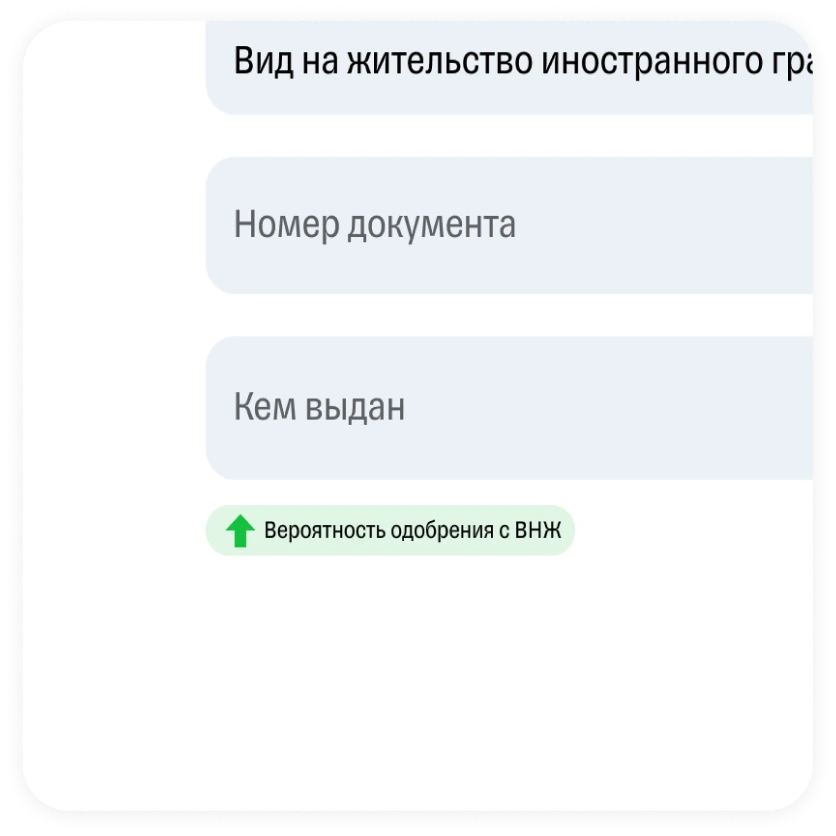
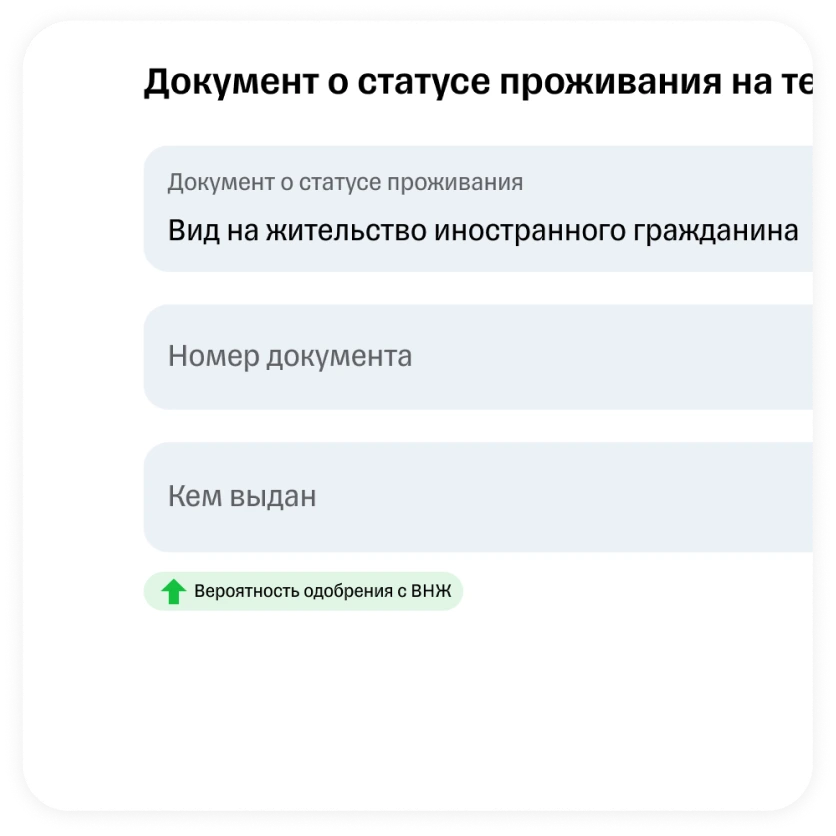
Fix left-menu scroll landing on first case page load
scrollIntoView computes its target Y once at call time. Lazy-loaded
images inside the case components inflate page height during the ~600ms
smooth animation, pushing sections down so the scroll lands in the wrong
place. Registers the pending scroll target in a ref and watches
document.body with a ResizeObserver; on each height change a single
rAF-debounced instant re-snap corrects the final position. Target clears
automatically after 2.5 s so normal user scrolling is unaffected.

diff --git a/src/pages/CasePage.tsx b/src/pages/CasePage.tsx
@@ -30,6 +30,10 @@ export function CasePage() {
   const { locale } = useLocale();
   const [mobileSectionsOpen, setMobileSectionsOpen] = useState(false);
   const mobileSectionsRef = useRef<HTMLDivElement>(null);
+  // Tracks the section id we last scrolled to so the layout-shift corrector
+  // below knows where to re-snap if images inflate the page height mid-scroll.
+  const scrollTargetRef = useRef<string | null>(null);
+  const scrollClearTimerRef = useRef<ReturnType<typeof setTimeout> | null>(null);
 
   // Scroll-reveal for all .case-sections children (see useScrollReveal hook).
   useScrollReveal(caseSlug);
@@ -113,13 +117,44 @@ export function CasePage() {
     };
   }, []);
 
-  // scrollIntoView tracks the element continuously through layout reflows
-  // (lazy images loading during animation), so the landing position is always exact.
-  // scroll-margin-top on each section element provides the sticky-nav offset.
   const scrollTo = useCallback((id: string) => {
     const el = document.getElementById(id);
     if (!el) return;
+
+    // Register the target so the ResizeObserver below can correct position
+    // if lazy images inflate page height during the smooth animation.
+    scrollTargetRef.current = id;
+    if (scrollClearTimerRef.current) clearTimeout(scrollClearTimerRef.current);
+    scrollClearTimerRef.current = setTimeout(() => {
+      scrollTargetRef.current = null;
+    }, 2500);
+
     el.scrollIntoView({ behavior: 'smooth', block: 'start' });
+  }, []);
+
+  // scrollIntoView computes the target position once at call time. Lazy images
+  // loading afterward inflate page height and push sections down, causing the
+  // scroll to land in the wrong place. This observer detects body height changes
+  // and re-snaps (instant) to the registered target while it's still active.
+  useEffect(() => {
+    let rafId: number | null = null;
+
+    const observer = new ResizeObserver(() => {
+      if (!scrollTargetRef.current || rafId !== null) return;
+      rafId = requestAnimationFrame(() => {
+        rafId = null;
+        const id = scrollTargetRef.current;
+        if (id) document.getElementById(id)?.scrollIntoView({ behavior: 'instant', block: 'start' });
+      });
+    });
+
+    observer.observe(document.body);
+
+    return () => {
+      observer.disconnect();
+      if (rafId !== null) cancelAnimationFrame(rafId);
+      if (scrollClearTimerRef.current) clearTimeout(scrollClearTimerRef.current);
+    };
   }, []);
 
 
